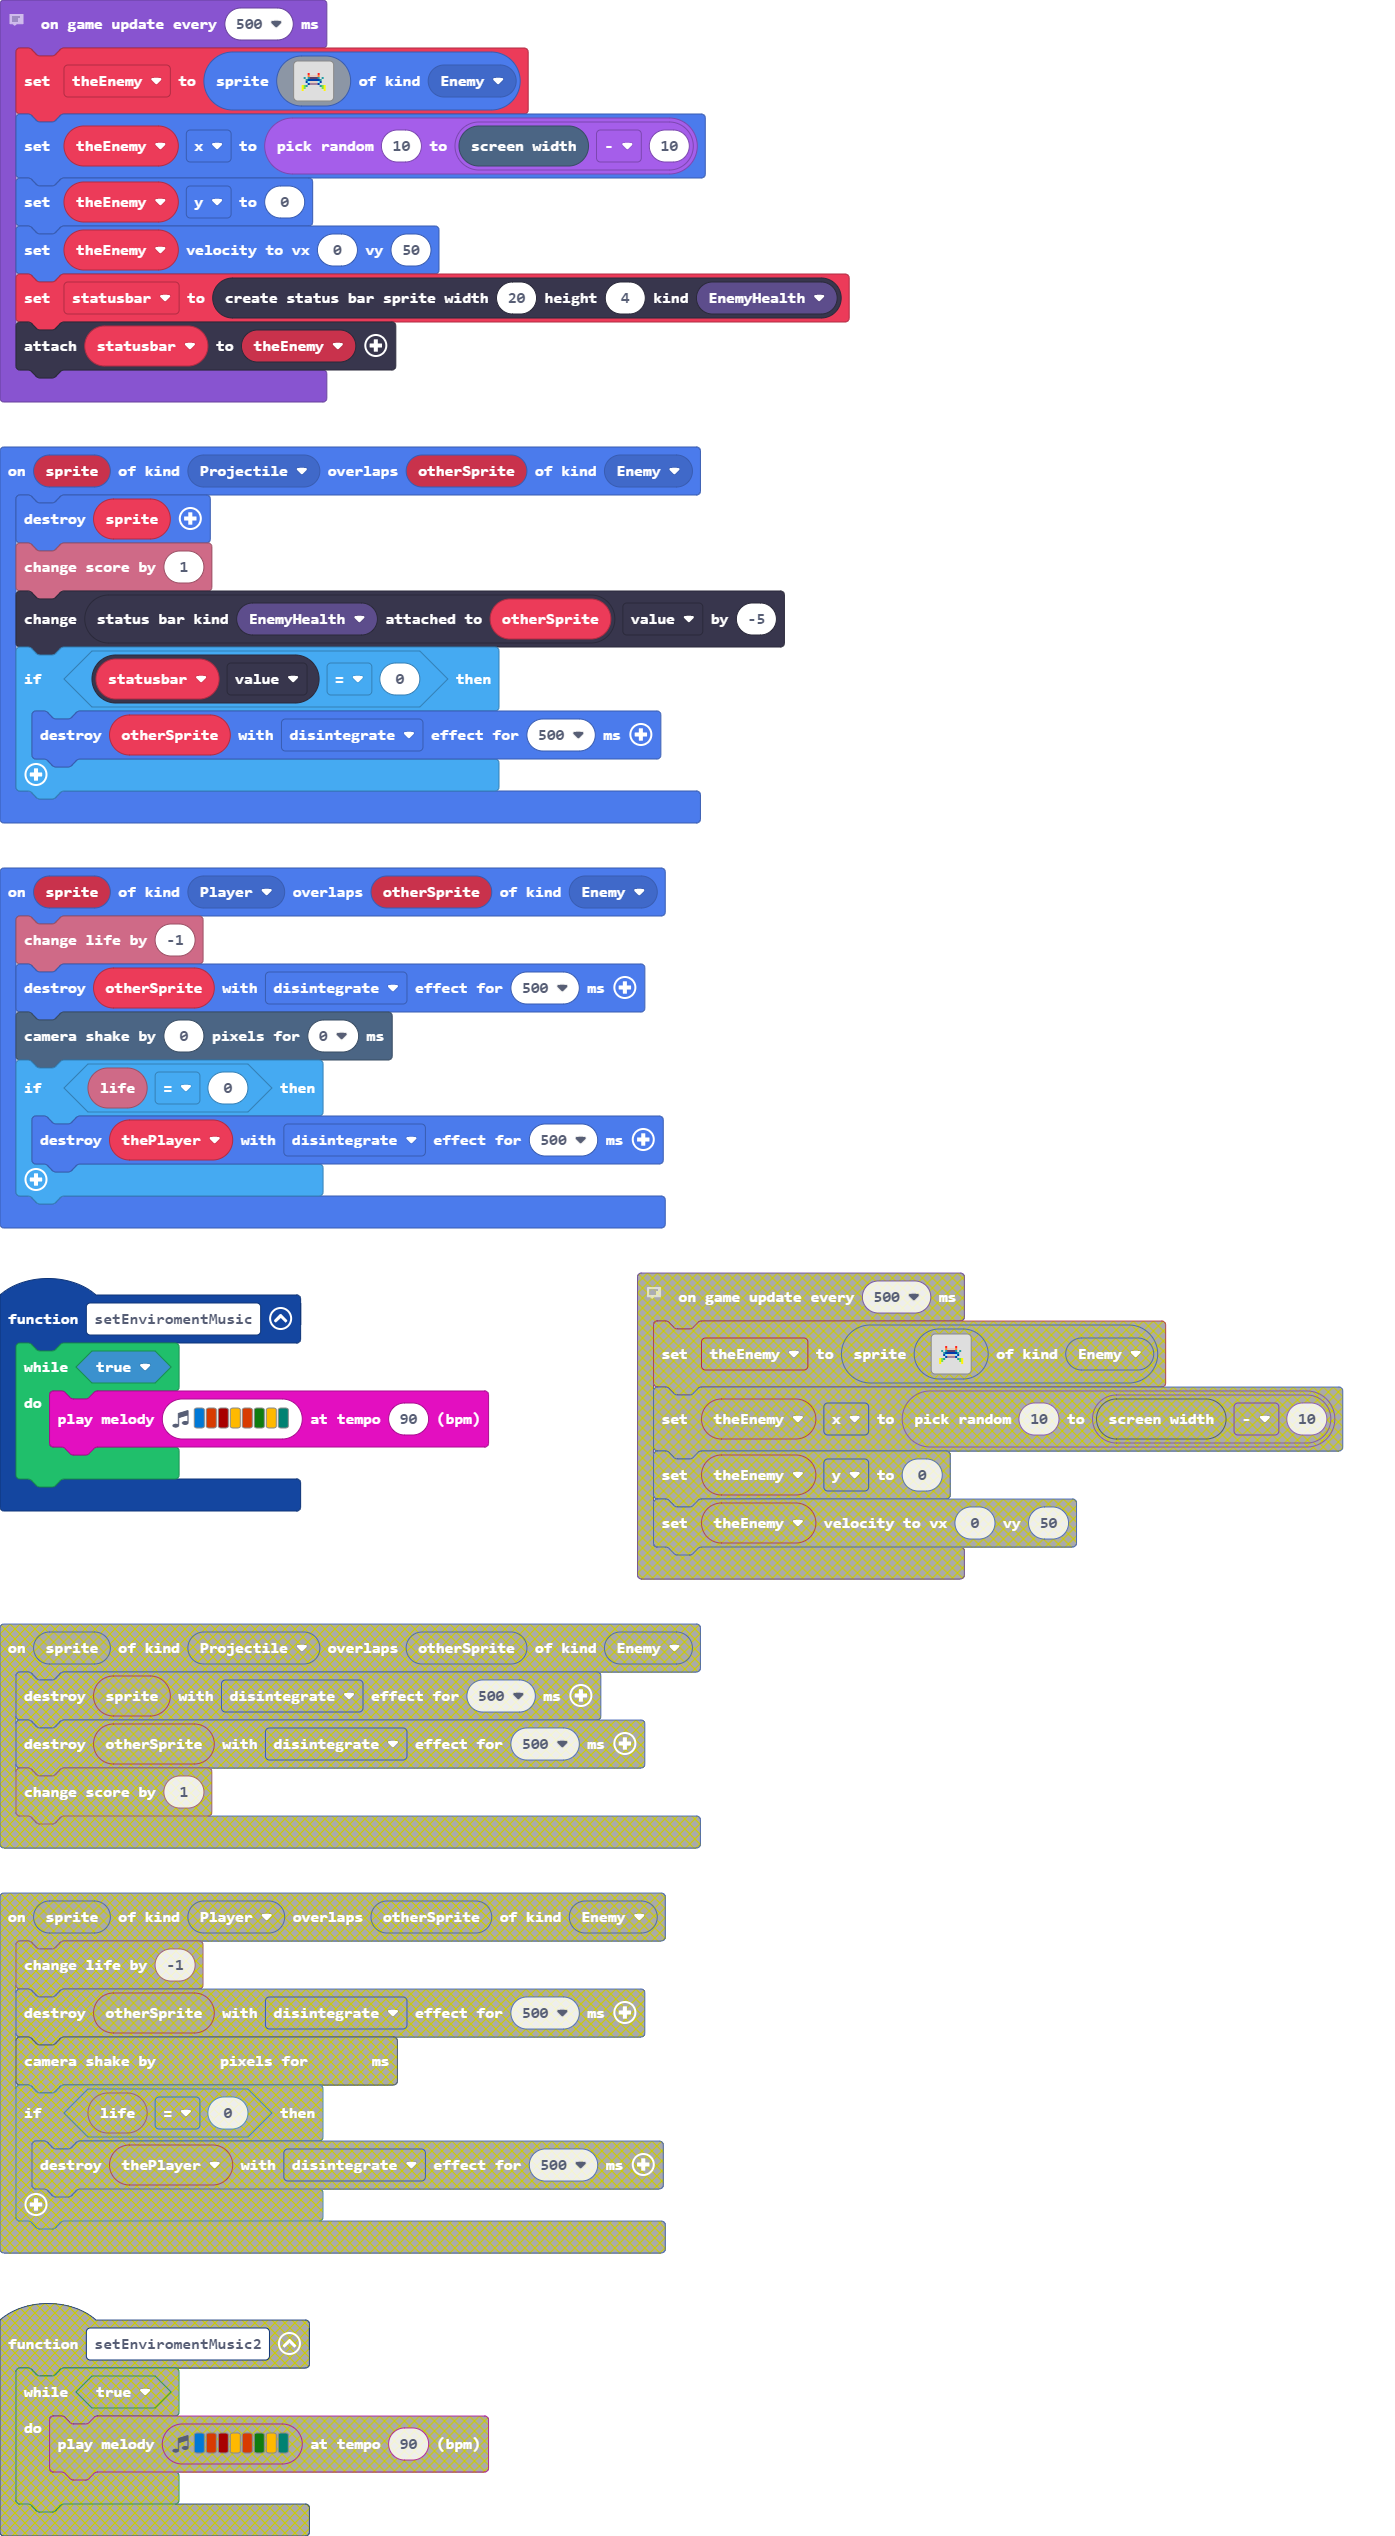
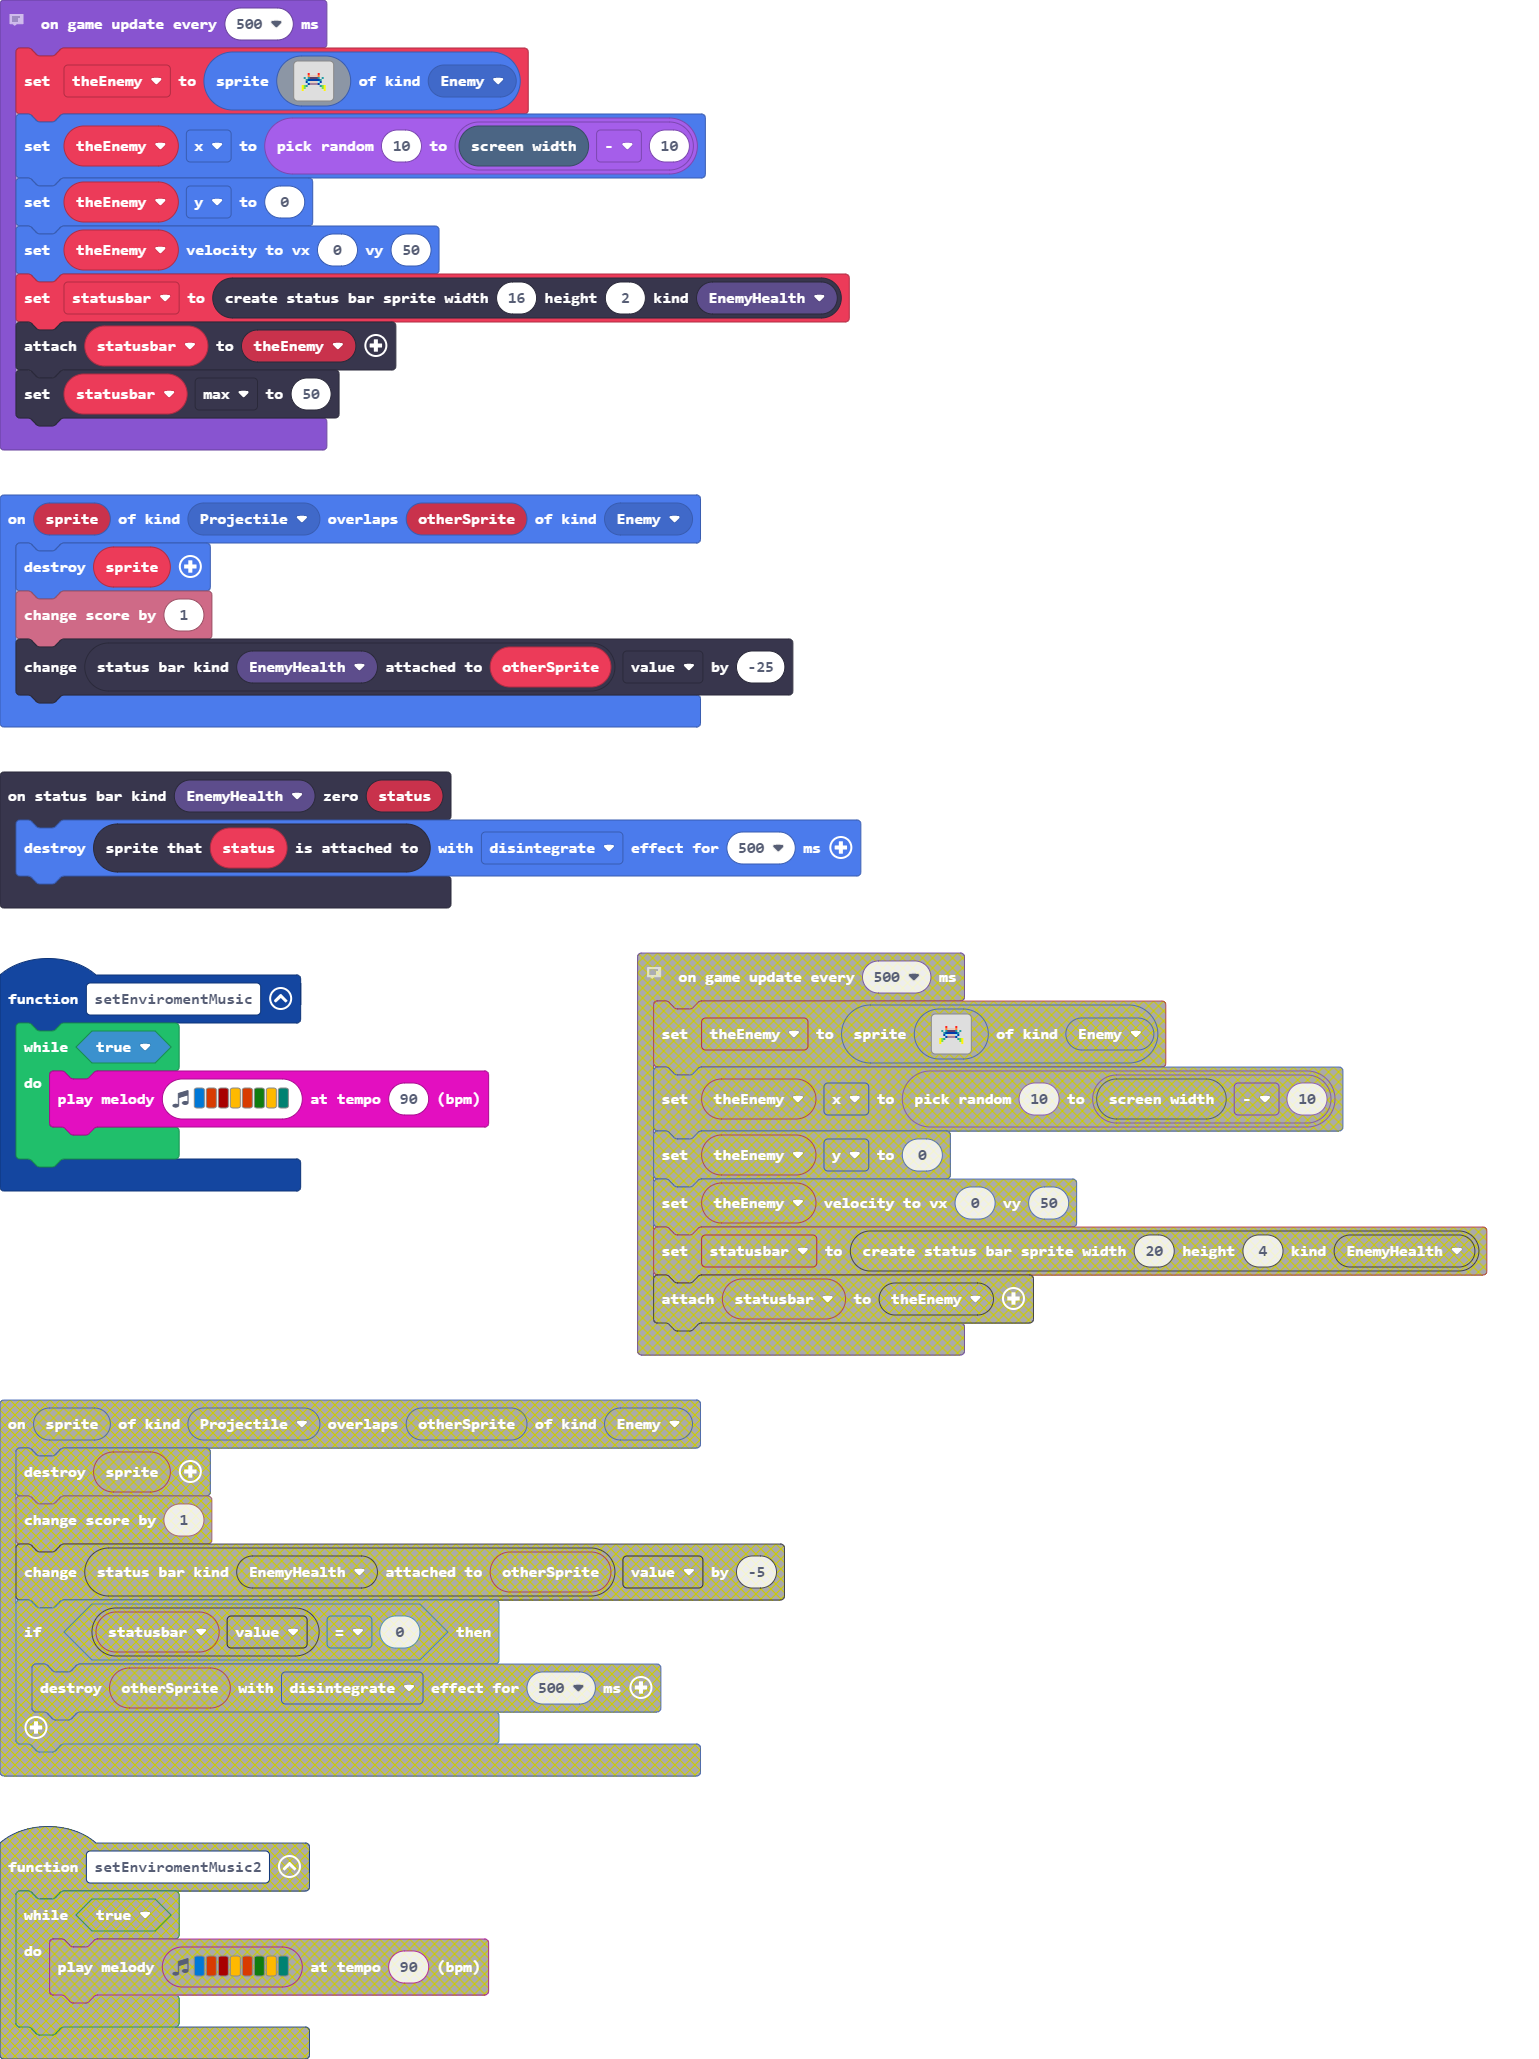
Enemy health statur bar works

diff --git a/main.ts b/main.ts
@@ -4,13 +4,13 @@ controller.B.onEvent(ControllerButtonEvent.Pressed, function () {
 controller.A.onEvent(ControllerButtonEvent.Pressed, function () {
     projectile = sprites.createProjectileFromSprite(assets.image`shoot`, thePlayer, 0, -50)
 })
+statusbars.onZero(StatusBarKind.EnemyHealth, function (status) {
+    status.spriteAttachedTo().destroy(effects.disintegrate, 500)
+})
 sprites.onOverlap(SpriteKind.Projectile, SpriteKind.Enemy, function (sprite, otherSprite) {
     sprite.destroy()
     info.changeScoreBy(1)
-    statusbars.getStatusBarAttachedTo(StatusBarKind.EnemyHealth, otherSprite).value += -5
-    if (statusbar.value == 0) {
-        otherSprite.destroy(effects.disintegrate, 500)
-    }
+    statusbars.getStatusBarAttachedTo(StatusBarKind.EnemyHealth, otherSprite).value += -25
 })
 function setEnviromentMusic () {
     while (true) {
@@ -25,8 +25,8 @@ sprites.onOverlap(SpriteKind.Player, SpriteKind.Enemy, function (sprite, otherSp
         thePlayer.destroy(effects.disintegrate, 500)
     }
 })
-let theEnemy: Sprite = null
 let statusbar: StatusBarSprite = null
+let theEnemy: Sprite = null
 let projectile: Sprite = null
 let thePlayer: Sprite = null
 let asteroid = null
@@ -44,6 +44,7 @@ game.onUpdateInterval(500, function () {
     theEnemy.x = randint(10, scene.screenWidth() - 10)
     theEnemy.y = 0
     theEnemy.setVelocity(0, 50)
-    statusbar = statusbars.create(20, 4, StatusBarKind.EnemyHealth)
+    statusbar = statusbars.create(16, 2, StatusBarKind.EnemyHealth)
     statusbar.attachToSprite(theEnemy)
+    statusbar.max = 50
 })
